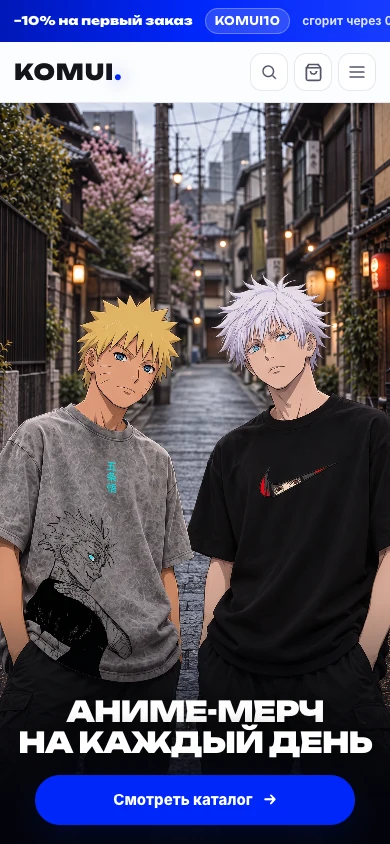
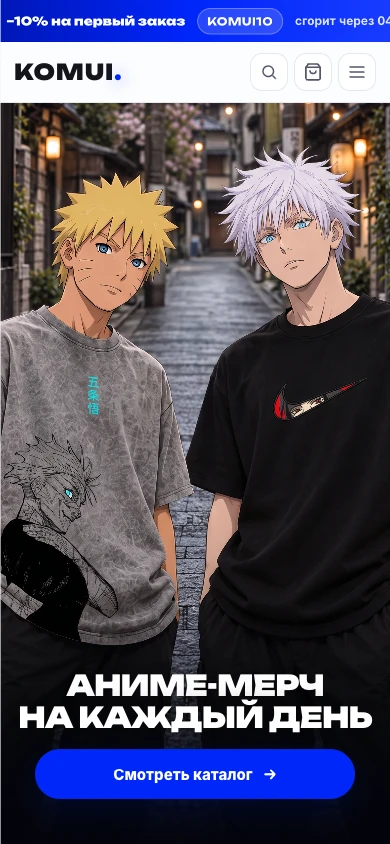
Add staging hero preview URLs and refine mobile variants

diff --git a/scripts/test-varioqub-hero.js b/scripts/test-varioqub-hero.js
@@ -18,7 +18,7 @@ assert(html.includes('class="hero-experiment"'), 'Alternate hero markup is missi
 assert(html.includes('/assets/experiments/home-hero-2026-09-25/hero.css'), 'Alternate hero CSS is missing');
 assert(css.includes('#home .hero-experiment{display:none}'), 'Alternate hero must be hidden by default');
 
-function execute(hostname, answer) {
+function execute(hostname, answer, { pathname = '/', search = '' } = {}) {
   const calls = [];
   const attrs = new Map();
   const firstScript = { parentNode: { insertBefore(node) { calls.push(['insert', node.src]); } } };
@@ -27,7 +27,7 @@ function execute(hostname, answer) {
     createElement() { return { addEventListener() {} }; },
     getElementsByTagName() { return [firstScript]; },
   };
-  const window = { document, location: { hostname }, Array };
+  const window = { document, location: { hostname, pathname, search }, Array, URLSearchParams };
   window.window = window;
   vm.runInNewContext(scriptMatch[1], window);
   if (typeof window.ymab === 'function') {
@@ -42,6 +42,15 @@ function execute(hostname, answer) {
 
 assert.strictEqual(execute('localhost', { flags: { komui_home_hero: ['B'] } }).calls.length, 0);
 assert.strictEqual(execute('stage.komui.ru', { flags: { komui_home_hero: ['B'] } }).calls.length, 0);
+for (const variant of ['B', 'C', 'D']) {
+  const stage = execute('stage.komui.ru', { flags: {} }, { search: `?komui_home_hero=${variant}` });
+  assert.strictEqual(stage.attrs.get('data-komui-hero-variant'), variant);
+  assert.strictEqual(stage.calls.length, 0, 'Staging must not call Varioqub');
+}
+assert.strictEqual(execute('stage.komui.ru', { flags: {} }, { search: '?komui_home_hero=A' }).attrs.size, 0);
+assert.strictEqual(execute('stage.komui.ru', { flags: {} }, { search: '?komui_home_hero=invalid' }).attrs.size, 0);
+assert.strictEqual(execute('stage.komui.ru', { flags: {} }, { pathname: '/checkout', search: '?komui_home_hero=B' }).attrs.size, 0);
+assert.strictEqual(execute('komui.ru', { flags: {} }, { search: '?komui_home_hero=B' }).attrs.size, 0, 'Production query must not force a variant');
 assert.strictEqual(execute('komui.ru', { flags: {} }).attrs.size, 0);
 assert.strictEqual(execute('komui.ru', { flags: { komui_home_hero: ['unknown'] } }).attrs.size, 0);
 assert.strictEqual(execute('komui.ru', { flags: { komui_home_hero: ['A', 'B'] } }).attrs.get('data-komui-hero-variant'), 'B');
@@ -63,7 +72,7 @@ async function checkAssets() {
     assert.deepStrictEqual([actualWidth, actualHeight, format], [width, height, 'webp']);
     assert(css.includes(`${name}.webp`), `${name} is not referenced by the responsive hero CSS`);
   }
-  console.log('✓ Varioqub: production-only init, A fallback, B/C/D flags and six hero images verified');
+  console.log('✓ Varioqub: production-only init, stage-only preview URLs, A fallback, B/C/D flags and six hero images verified');
 }
 
 checkAssets().catch(error => { console.error(error); process.exitCode = 1; });

diff --git a/assets/experiments/home-hero-2026-09-25/hero.css b/assets/experiments/home-hero-2026-09-25/hero.css
@@ -86,23 +86,28 @@ html[data-komui-hero-variant="D"] #home .hero-experiment-image{
   html:is([data-komui-hero-variant="B"],[data-komui-hero-variant="C"],[data-komui-hero-variant="D"]) #home{
     height:clamp(520px,calc(100svh - 98px),760px);
     min-height:520px;
+    overflow:hidden;
+  }
+  #home .hero-experiment-image{
+    background-position:center bottom;
+    transform-origin:center bottom;
   }
   html[data-komui-hero-variant="B"] #home .hero-experiment-image{
     background-image:url('/assets/experiments/home-hero-2026-09-25/b-mobile-2k.webp');
-    background-position:center 52%;
+    transform:scale(1.22);
   }
   html[data-komui-hero-variant="C"] #home .hero-experiment-image{
     background-image:url('/assets/experiments/home-hero-2026-09-25/c-mobile.webp');
-    background-position:center 48%;
+    transform:scale(1.04);
   }
   html[data-komui-hero-variant="D"] #home .hero-experiment-image{
     background-image:url('/assets/experiments/home-hero-2026-09-25/d-mobile.webp');
-    background-position:center 48%;
+    transform:scale(1.08);
   }
   #home .hero-experiment::after{
     background:linear-gradient(180deg,transparent 53%,rgba(2,4,12,.06) 67%,rgba(2,4,12,.82) 100%);
   }
-  #home .hero-experiment-copy{gap:16px;padding:0 16px calc(24px + env(safe-area-inset-bottom))}
+  #home .hero-experiment-copy{gap:16px;padding:0 16px calc(50px + env(safe-area-inset-bottom))}
   #home .hero-experiment-copy h1{font-size:clamp(27px,7.4vw,43px);line-height:1.1}
   #home .hero-experiment-cta{width:min(100%,320px);min-height:50px}
 }
@@ -112,9 +117,19 @@ html[data-komui-hero-variant="D"] #home .hero-experiment-image{
     height:calc(100svh - 98px);
     min-height:450px;
   }
-  #home .hero-experiment-copy{gap:12px;padding-bottom:18px}
+  #home .hero-experiment-copy{gap:12px;padding-bottom:32px}
   #home .hero-experiment-copy h1{font-size:clamp(25px,6.8vw,32px)}
   #home .hero-experiment-cta{min-height:44px}
+}
+
+/* Short phone screens crop portrait photos by width; keep every face in frame. */
+@media(max-width:800px) and (orientation:portrait) and (max-height:760px){
+  html[data-komui-hero-variant="B"] #home .hero-experiment-image{transform:scale(1.15)}
+  html[data-komui-hero-variant="C"] #home .hero-experiment-image{background-position:center 50%;transform:none}
+  html[data-komui-hero-variant="D"] #home .hero-experiment-image{background-position:center 80%;transform:none}
+}
+@media(max-width:800px) and (orientation:portrait) and (max-height:700px){
+  html[data-komui-hero-variant="B"] #home .hero-experiment-image{transform:scale(1.03)}
 }
 
 @media(prefers-reduced-motion:reduce){

diff --git a/docs/experiments/home-hero-2026-09-25/preview.html b/docs/experiments/home-hero-2026-09-25/preview.html
@@ -53,7 +53,7 @@
   <header class="top">
     <p class="eyebrow">KOMUI / эксперимент главной</p>
     <h1>Сравнение вариантов A–D</h1>
-    <p class="intro">Снимки первого экрана сделаны с рабочего сайта: A — текущая главная, B/C/D — альтернативные изображения, временно включённые только в браузере для этих превью. Сам A/B-тест пока не запущен.</p>
+    <p class="intro">Снимки первого экрана KOMUI: A — текущая главная, B/C/D — альтернативные изображения, временно включённые только для этих превью. Мобильное кадрирование B/C/D обновлено; сам A/B-тест пока не запущен.</p>
     <div class="toolbar">
       <div class="switch" role="group" aria-label="Размер экрана">
         <button type="button" data-select-device="desktop" aria-pressed="true">Десктоп · 1440 × 900</button>

diff --git a/index.html b/index.html
@@ -23,6 +23,12 @@
 <!-- komui:metrika:end -->
 <!-- Varioqub: homepage hero experiment; no flag keeps the existing hero. -->
 <script type="text/javascript">
+if (location.hostname==='stage.komui.ru' && (location.pathname==='/' || location.pathname==='/index.html')) {
+  var stageHeroVariant=new URLSearchParams(location.search).get('komui_home_hero');
+  if(stageHeroVariant==='B'||stageHeroVariant==='C'||stageHeroVariant==='D'){
+    document.documentElement.setAttribute('data-komui-hero-variant',stageHeroVariant);
+  }
+}
 if (/^(?:www\.)?komui\.ru$/i.test(location.hostname)) {
   (function(e, x, pe, r, i, me, nt){
     e[i]=e[i]||function(){(e[i].a=e[i].a||[]).push(arguments)};

diff --git a/docs/experiments/home-hero-2026-09-25/README.md b/docs/experiments/home-hero-2026-09-25/README.md
@@ -2,7 +2,7 @@
 
 Подготовлено 25.09.2026. Это **набор для теста**, не свидетельство, что эксперимент запущен в Varioqub. Меняется только первый экран главной `https://komui.ru/`; каталог и оформление остаются прежними.
 
-[Открыть сравнение всех вариантов в браузере](preview.html) — снимки первого экрана с рабочего сайта для десктопа и телефона, с увеличением по клику. Это статическое превью: оно не переключает вариант у посетителей.
+[Открыть сравнение всех вариантов в браузере](preview.html) — снимки первого экрана для десктопа и телефона, с увеличением по клику. Мобильные B/C/D обновлены 25.09.2026: головы расположены выше, а заголовок и кнопка подняты; на коротких экранах кадрирование отдельно ограничено, чтобы не обрезать лица. Это статическое превью: оно не переключает вариант у посетителей.
 
 | Вариант | Что видит посетитель | Исходники | Флаг `komui_home_hero` |
 | --- | --- | --- | --- |
@@ -20,6 +20,19 @@
 3. До запуска проверить превью всех четырёх веток на десктопе и телефоне, кликабельность «Смотреть каталог», отсутствие горизонтальной прокрутки и реальные загрузки WebP. Основная метрика — оплаченный заказ / ecommerce purchase, вспомогательная — переход в каталог. Сравнивать конверсии на одинаковом периоде и отдельно по устройствам, не делать вывод по одним кликам.
 
 На сайте при отсутствии ответа Varioqub или ошибке загрузки `exp.js` остаётся A. B/C/D не включаются параметром URL или локальным хранилищем посетителя. Вариант устанавливается только по ответу Varioqub.
+
+## Прямые ссылки на staging
+
+Staging защищён существующим Basic Auth. Эти ссылки отображают те же HTML, CSS и WebP, что получает соответствующий вариант на проде, но не запускают Varioqub и не записывают тестовые визиты в продовую Метрику:
+
+| Вариант | Ссылка |
+| --- | --- |
+| A | https://stage.komui.ru/?komui_home_hero=A |
+| B | https://stage.komui.ru/?komui_home_hero=B |
+| C | https://stage.komui.ru/?komui_home_hero=C |
+| D | https://stage.komui.ru/?komui_home_hero=D |
+
+Параметр работает только на главной staging; на `komui.ru` и `www.komui.ru` URL не переключает вариант. Чтобы превью оставались синхронными с публичным тестом после будущих правок, выкладывать один и тот же проверенный Git commit сначала на staging, затем на prod и сверять версии релизов.
 
 Из-за клиентского получения флага может быть краткое мерцание A перед B/C/D. [Антифликер Яндекса](https://yandex.ru/support/varioqub/ru/anti-flicker) пока не включён: стандартный пример скрывает всю страницу до 4 секунд, даже когда тест ещё не идёт. Перед запуском следует проверить фактическое мерцание на мобильной сети и при необходимости включить ограниченное скрытие только hero с коротким таймаутом. Это отдельная UX-проверка, а не условие подключения Varioqub.
 
